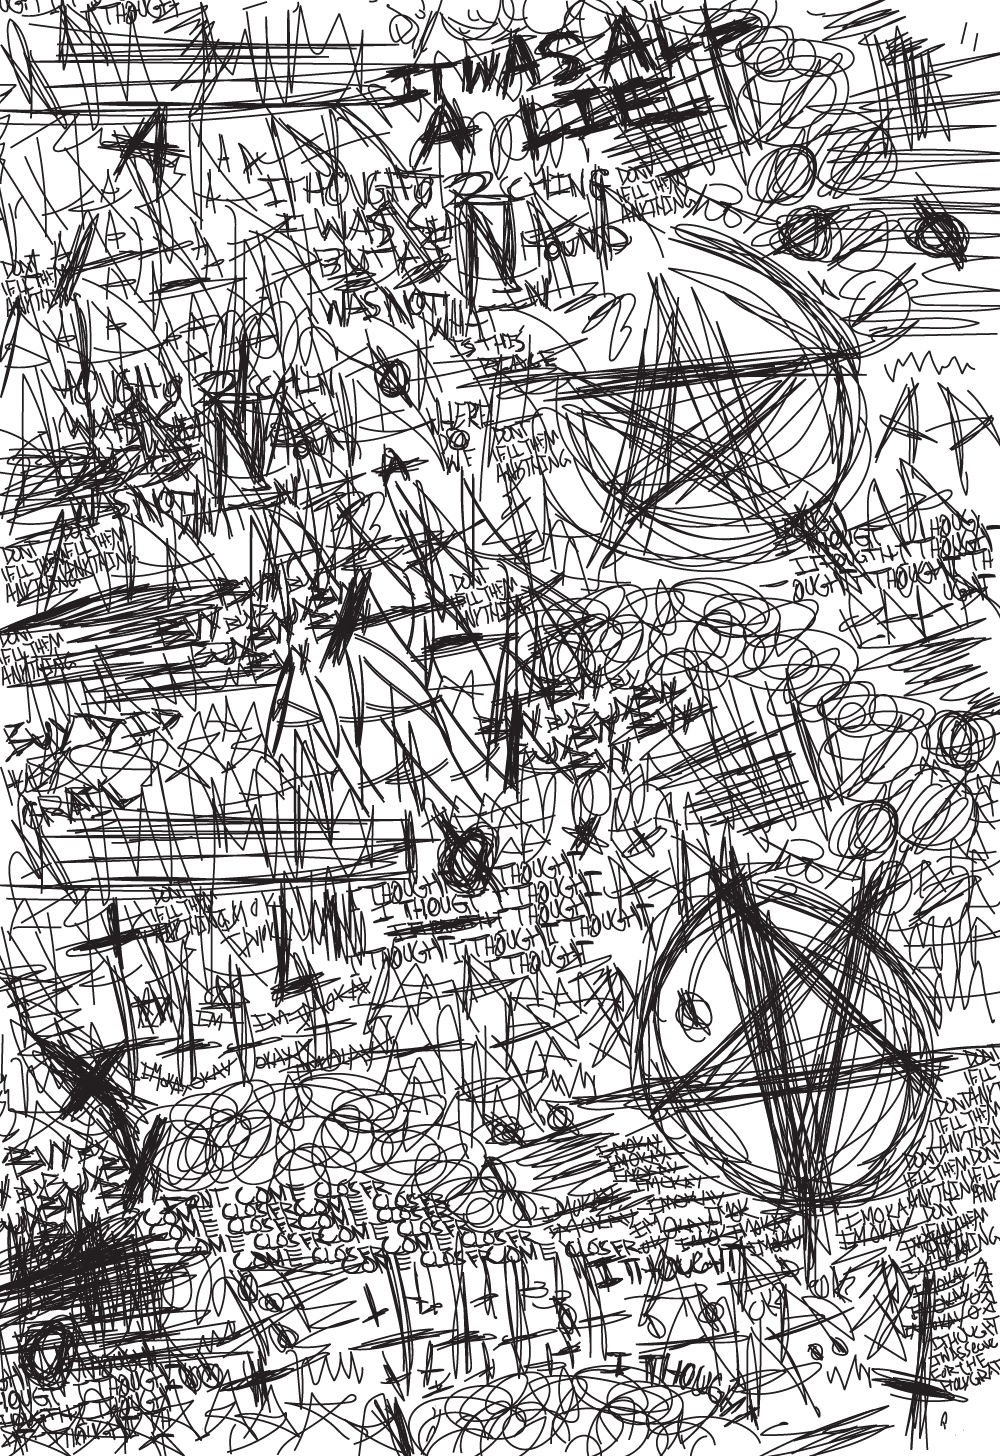
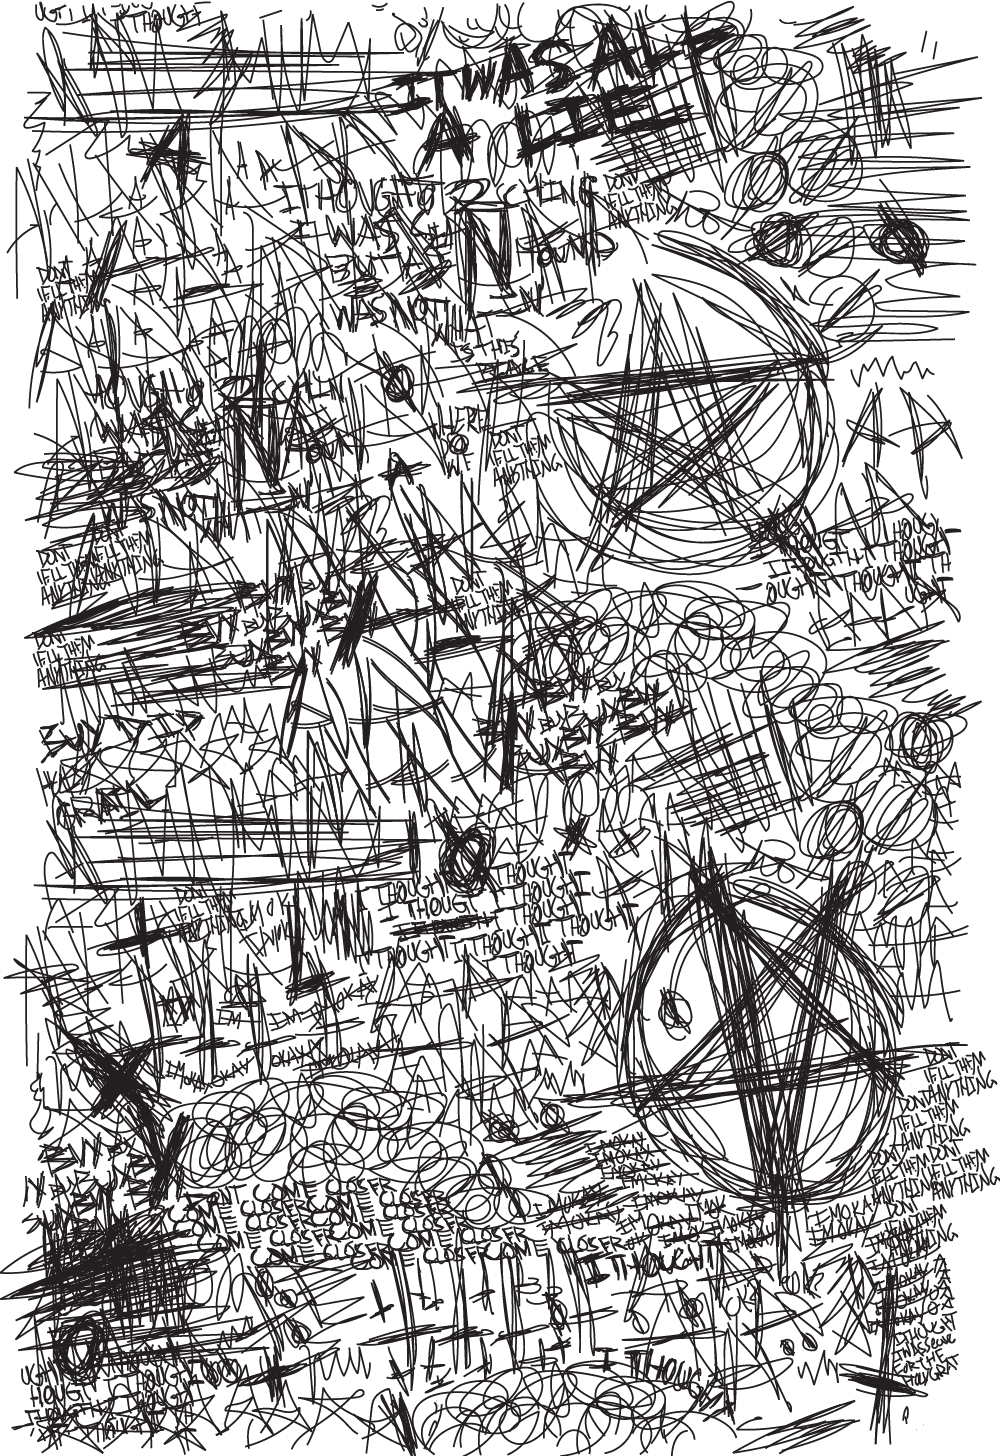
update bg image

diff --git a/src/styles/globals.css b/src/styles/globals.css
@@ -14,7 +14,7 @@ html {
 }
 
 #background-image{
-    background-image: linear-gradient(rgba(255, 255, 255, 0.6), rgba(255, 255, 255, 0.6)), url('/bg.png');
+    background-image: linear-gradient(rgba(255, 255, 255, 0.6), rgba(255, 255, 255, 0.6)), url('/bg2.png');
     background-color: white;
     background-size: 100% auto;
 }
